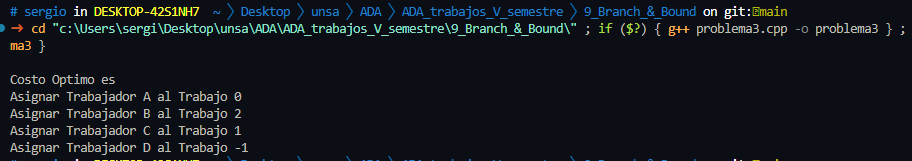
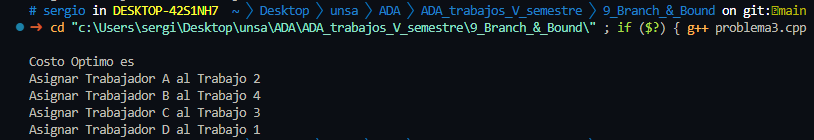
b&b

diff --git a/9_Branch_&_Bound/problema3.cpp b/9_Branch_&_Bound/problema3.cpp
@@ -104,7 +104,7 @@ void imprimirAsignaciones(Nodo *min)
         return;
 
     imprimirAsignaciones(min->padre);
-    cout << "Asignar Trabajador " << char(min->idTrabajador + 'A') << " al Trabajo " << min->idTrabajo - 1 << endl;
+    cout << "Asignar Trabajador " << char(min->idTrabajador + 'A') << " al Trabajo " << min->idTrabajo + 1 << endl;
 }
 
 // Encuentra el costo mínimo utilizando Branch and Bound.
